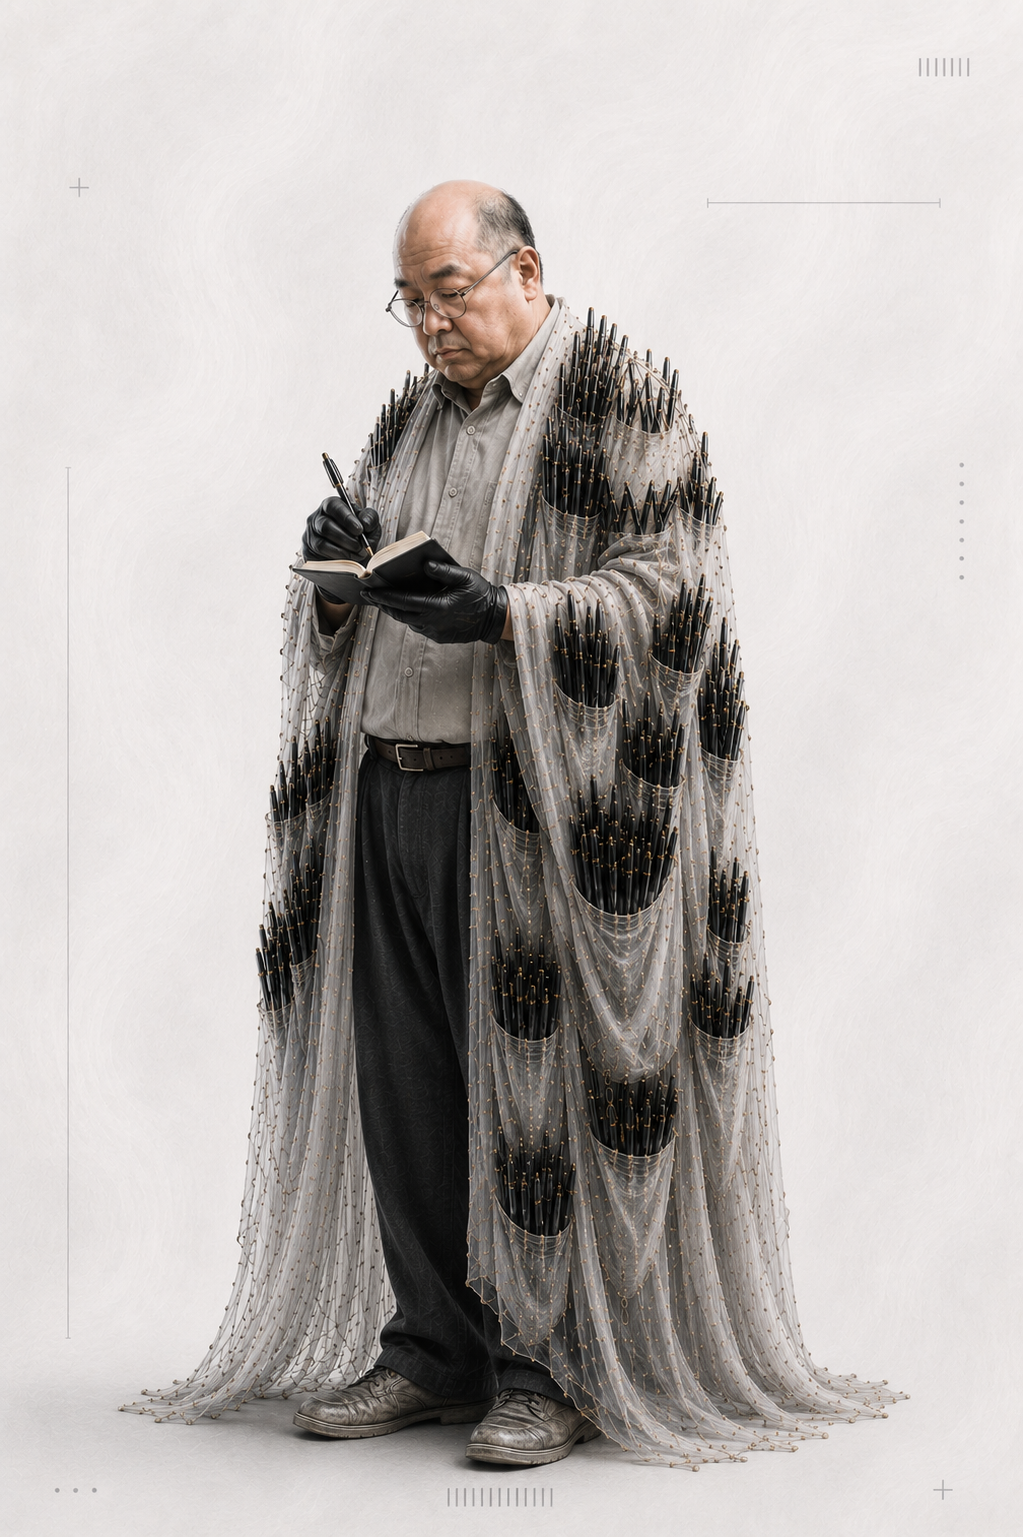
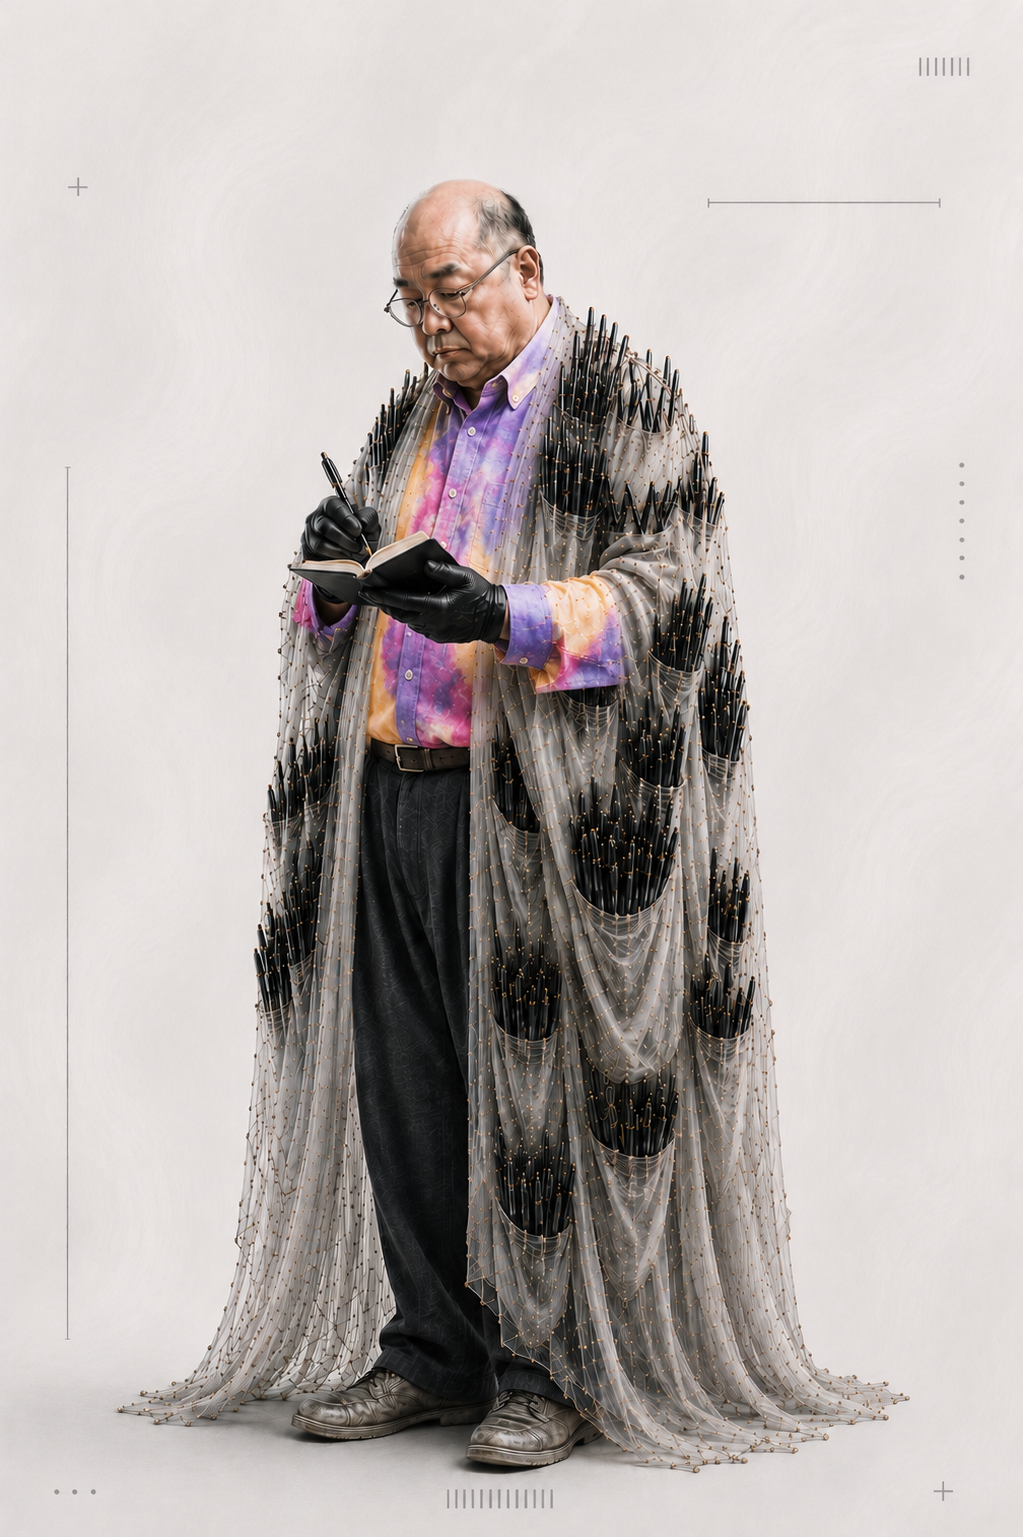
修正

Changed region(s): [[0.1212, 0.1249, 0.8788, 0.9681]]

diff --git a/app/page.tsx b/app/page.tsx
@@ -197,49 +197,49 @@ const personalityMap = [
 ] as const;
 
 const personalityLongDescriptions: Record<string, string> = {
-  flowObserver: `導線観測者は、人そのものよりも「人の流れ」を見ている人格です。誰がどこへ向かい、どこで止まり、どこで迷い、どこに引き寄せられるのかを無意識に観察しています。街を歩いていても、店の入口の配置や、人が自然に集まる場所に目が向きます。会話の中ですら、「この話題になると人の視線が移動する」「ここで空気が流れた」と感じ取っています。
+  flowObserver: `導線観測者は、「人がどう動くか」を見る人格です。誰がどこへ向かい、どこで止まり、どこで迷い、どこに引き寄せられるのかを無意識に観察しています。街を歩いていても、店の入口の配置や、人が自然に集まる場所に目が向きます。会話の中ですら、「この話題になると人の視線が移動する」「ここで空気が流れた」と感じ取っています。
 このタイプは、空間やUIを単なる見た目ではなく、“行動を誘導する構造”として捉えています。そのため、UX設計や展示、イベント構成、店舗レイアウトなどで強みを発揮します。本人は感覚で理解していることが多く、「なんとなくここがおかしい」と感じたことが、実際に人の動線問題であることがよくあります。静かに全体を見ているタイプであり、人間関係の中心に立つより、全体構造を後ろから制御することに適性があります。`,
 
-conceptEditor:`概念編集者は、曖昧な思想や感覚を“理解できる構造”へ変換する人格です。人の話を聞くと、頭の中で自然に整理が始まり、「つまりこういうことですね」と骨格化してしまいます。断片的な情報を繋ぎ、言葉になっていない思想を整理し直す能力に長けています。
+conceptEditor:`概念編集者は、「曖昧な考えを整理する」人格です。人の話を聞くと、頭の中で自然に整理が始まり、「つまりこういうことですね」と骨格化してしまいます。断片的な情報を繋ぎ、言葉になっていない思想を整理し直す能力に長けています。
 このタイプは、情報を増やすよりも“不要なものを削ぎ落として本質を残す”ことを得意とします。そのため、ブランド設計、思想整理、コンセプト設計、ネーミングなどに強い適性があります。感情より構造に意識が向くため、議論の熱量より論理的な整合性を優先する傾向があります。一方で、人の熱意や衝動を整理しすぎてしまい、冷たく見られることもあります。本人は世界を「理解可能な形にしたい」という欲求で動いています。`,
 
- behaviorObserver: `行動観測者は、人間の“無意識の癖”を異常な精度で観察する人格です。話し方や表情よりも、指の動き、視線、歩き方、スマホの持ち方など、本人すら意識していない行動パターンに強く反応します。
+ behaviorObserver: `行行動観測者は、「人の無意識行動」を見る人格です。話し方や表情よりも、指の動き、視線、歩き方、スマホの持ち方など、本人すら意識していない行動パターンに強く反応します。
 このタイプは、「人は言葉ではなく行動で本音を表す」と感じています。そのため、アンケートや建前よりも、“実際にどう動いたか”を重視します。UXやマーケティング分野では非常に強力で、「このボタンは押されない」「ここで離脱する」と直感的に理解します。人を観察対象として見続けるため、本人は人混みにいてもどこか客観的で、常に一歩引いて世界を見ています。分析力が高い反面、人を“データ”として見すぎてしまい、人間関係に距離が生まれることがあります。`,
 
-temperatureSensor:`温度感知者は、空気の“感情温度”を身体感覚で受け取る人格です。言葉ではなく、場の湿度、静けさ、距離感、呼吸感のようなものを感じています。誰かが怒っていることを表情より先に察知したり、場の緊張感を肌で理解したりします。
+temperatureSensor:`温度感知者は、「感情温度」を感じ取る人格です。言葉ではなく、場の湿度、静けさ、距離感、呼吸感のようなものを感じています。誰かが怒っていることを表情より先に察知したり、場の緊張感を肌で理解したりします。
 このタイプにとって、空間は単なる場所ではなく、「感情が漂う環境」です。そのため、音、光、匂い、余白、人との距離感に強く影響を受けます。優しく共感性が高い反面、周囲の感情を受け取りすぎて疲弊しやすい特徴があります。人混みや緊張感の強い場所に長時間いると、精神的に消耗してしまいます。しかしその繊細さゆえに、人の気持ちを自然に察し、安心できる空気を作る力を持っています。`,
 
-contextReader:`文脈解読者は、「なぜそうなったのか」という背景を異常な深さで掘り下げる人格です。このタイプは、表面の言葉だけを見ません。その発言が生まれた歴史、関係性、空気、文化的背景まで読み取ろうとします。
+contextReader:`文脈解読者は、「なぜそうなったか」を掘り下げる人格です。このタイプは、表面の言葉だけを見ません。その発言が生まれた歴史、関係性、空気、文化的背景まで読み取ろうとします。
 たとえば作品を見るときも、「この演出はなぜ必要だったのか」「この言葉は何への反発なのか」を考え続けます。そのため、文化、思想、歴史、ブランドの背景理解に非常に強い適性があります。一方で、単純な説明や浅い解釈には強い違和感を覚えます。常に裏側を読み解こうとするため、考え込みやすく、結論にたどり着くまで時間がかかることもあります。しかし、他人が見落とす“本当の意味”を掘り当てる能力を持っています。`,
 
 noiseObserver:`違和感探知者は、「普通の中のズレ」を感知する人格です。1pxのズレ、会話の微妙な間、声色の変化、空気の歪みなど、人が気付かない微細なノイズに反応します。
 このタイプは、世界を“正常か異常か”という感覚で見ています。そのため、デバッグ能力や異常検知能力に優れています。「なんか変」という感覚が非常に鋭く、後から問題が発覚すると「やっぱり」となることが多いです。神経質に見られることもありますが、本人は無意識に違和感を拾ってしまっているだけです。気付きすぎるため疲労しやすく、常に脳が警戒状態になりやすい傾向があります。`,
 
-airArchitect:`空気構築者は、場の雰囲気そのものを設計する人格です。このタイプは、「何を作るか」より先に、「どんな空気を作るか」を考えています。
+airArchitect:`空気構築者は、「場の雰囲気」を設計する人格です。このタイプは、「何を作るか」より先に、「どんな空気を作るか」を考えています。
 店舗、ブランド、イベント、SNS、会話の場など、あらゆる空間を“空気”として設計します。光、余白、音、距離感、言葉選びなどを統合し、人が自然にその世界へ没入する環境を作ります。本人は派手ではありませんが、その場の雰囲気を静かに支配しています。人を直接動かすというより、「その気になる空気」を作ることに長けています。実務の細部よりも全体の世界観を優先しやすく、空気を壊す存在に強いストレスを感じます。`,
 
-sensoryEditor:`感覚編集者は、“美しさ”や“気持ちよさ”を整理する人格です。このタイプは、色、質感、音、余白、リズムなどを無意識に調律しています。「なんか綺麗」「なんか気持ちいい」を、偶然ではなく再現可能な形へ整えていきます。
+sensoryEditor:`感覚編集者は、「美しさと気持ちよさを整える」人格です。このタイプは、色、質感、音、余白、リズムなどを無意識に調律しています。「なんか綺麗」「なんか気持ちいい」を、偶然ではなく再現可能な形へ整えていきます。
 ノイズを削り、感覚の純度を高める能力が高く、UI、映像、服、空間などの統一感づくりに強い適性があります。本人は感覚的に動いているように見えて、実際は非常に構造的です。一方で、美意識が高いため、粗さや雑さに強いストレスを感じます。「あと少し整えたい」が終わらず、完成への執着が強くなりやすい人格です。`,
 
-behaviorDirector:`行動演出者は、人を“動きたくなる状態”へ導く人格です。このタイプは、空気、熱量、期待感を使って、人の行動を自然に誘導します。
+behaviorDirector:`行動演出者は、「人が動きたくなる空気」を作る人格です。このタイプは、空気、熱量、期待感を使って、人の行動を自然に誘導します。
 単なる説明ではなく、「参加したい」「押したい」「試したい」と思わせる雰囲気作りに優れています。イベント、広告、SNS、接客などで強い力を発揮し、人の感情を盛り上げることが得意です。本人自身も熱量が高く、周囲を巻き込む力があります。ただし、勢いを優先しすぎると空回りすることがあり、静かな環境や感情の薄い場ではエネルギーを失いやすい特徴があります。`,
 
-conceptSensor:`概念感知者は、思想や哲学を“感覚”として理解する人格です。このタイプは、言葉になる前の空気やイメージを感じ取っています。
+conceptSensor:`概概念感知者は、「思想を感覚で理解する」人格です。このタイプは、言葉になる前の空気やイメージを感じ取っています。
 普通の人が論理で理解するものを、この人格は「感触」で理解します。そのため、詩、芸術、世界観、哲学との相性が非常に良く、説明不能な直感を持っています。本人も「なぜ分かるのか説明できない」ことが多く、周囲から不思議な存在に見られます。現実的な説明や具体化は苦手ですが、誰よりも深い“感覚的理解”を持っています。`,
 
-airObserver:`空気観測者は、場の変化を“監視”するように観測する人格です。温度感知者が空気を感じるタイプだとすれば、この人格は空気の変化量を測定しているタイプです。
+airObserver:`空気観測者は、「場の変化を監視する」人格です。温度感知者が空気を感じるタイプだとすれば、この人格は空気の変化量を測定しているタイプです。
 誰が疲れているか、誰が浮いているか、会話の温度がどこで下がったかを瞬時に察知します。本人は無意識に周囲をスキャンし続けており、集団崩壊の兆候や不穏な空気に非常に敏感です。そのため、組織の危機察知能力に優れています。しかし常に周囲を見続けるため神経疲労が激しく、人間関係の中で消耗しやすい人格でもあります。`,
 
-uxReader:`UX解読者は、人間行動の“原理”を理解しようとする人格です。このタイプは、「なぜ人はこれを使いやすいと感じるのか」を構造レベルで考えています。
+uxReader:`UX解読者は、「なぜ人がそう感じるのかを解読する」人格です。このタイプは、「なぜ人はこれを使いやすいと感じるのか」を構造レベルで考えています。
 単なるUI改善ではなく、人間心理、認知、行動導線、感情変化を抽象化して理解しようとします。そのため、UXを“思想”として捉えています。非常に論理的で本質思考ですが、感情演出や勢いだけの空気には乗りにくい特徴があります。世界をシステムとして理解しようとする、理論型の人格です。`,
 
-obsessiveBuilder:`執着構築者は、異常なまでのこだわりで完成度を追求する人格です。このタイプは、「まだ良くできる」が止まりません。
+obsessiveBuilder:`執着構築者は、「理想形への異常なこだわり」を持つ人格です。このタイプは、「まだ良くできる」が止まりません。
 UI、コード、配置、構造、品質などを極限まで磨き込みます。本人の中には理想形が存在しており、それに近づけるためなら時間を惜しみません。職人気質で、一人で黙々と積み上げることに強さがあります。しかし、終わりの基準が非常に高いため、永遠に完成しないことがあります。他人から見ると狂気的な執着ですが、本人にとっては“納得できる形”に近づけているだけなのです。`,
 
-experienceSensor:`体験感知者は、UXを“身体感覚”として理解する人格です。このタイプは、「押した時の感触」「動いた時の気持ちよさ」「触れた瞬間の違和感」を非常に強く感じます。
+experienceSensor:`体験感知者は、「身体がどう感じるか」を見る人格です。このタイプは、「押した時の感触」「動いた時の気持ちよさ」「触れた瞬間の違和感」を非常に強く感じます。
 ゲーム、デバイス、UI、空間などにおいて、“身体がどう反応するか”を基準に世界を見ています。理論ではなく、実際の感覚を重視するため、「なんか気持ちいい」が極めて重要です。感覚優位なため、論理説明は苦手ですが、体験設計の精度は非常に高い人格です。`,
 
-airConceptualizer:`空気概念者は、“時代の空気”を概念として理解する人格です。このタイプは、「今なぜこれが流行るのか」「なぜこの雰囲気が支持されるのか」を感覚ではなく、思想として捉えています。
+airConceptualizer:`空気概念者は、「時代の空気」を思想とする人格です。このタイプは、「今なぜこれが流行るのか」「なぜこの雰囲気が支持されるのか」を感覚ではなく、思想として捉えています。
 トレンドを表面的な流行ではなく、“時代の欲求”として読み解きます。そのため、文化分析や未来予測に強い適性があります。本人は常に時代の流れを考えており、世界の空気変化を哲学として見ています。ただし、抽象思考が強すぎるため、具体的な実務や現実処理が遅れやすい特徴があります。それでも、この人格は「次の時代の空気」を最も早く察知する存在です。`,
 
 };